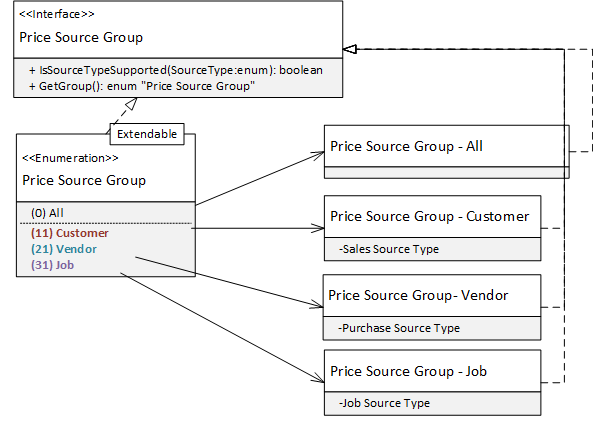
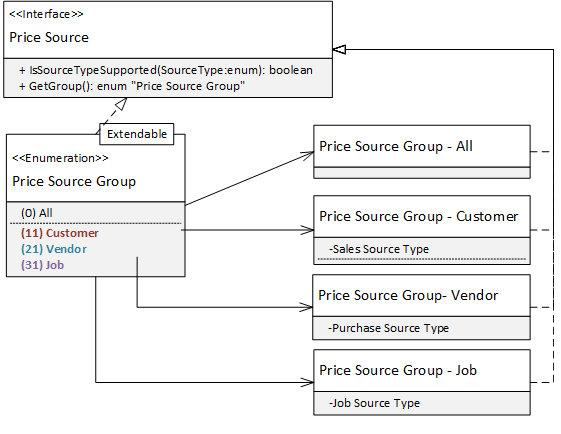
redid some images

diff --git a/dev-itpro/developer/devenv-extending-best-price-calculations.md b/dev-itpro/developer/devenv-extending-best-price-calculations.md
@@ -39,7 +39,7 @@ You can have multiple setups with the same combination of method, type, and asse
 |Method  |Type  |Asset Type  |Implementation  |Default  |
 |---------|---------|---------|---------|---------|
 |Lowest Price|Sale|All|Business Central (Version 15.0)|X|
-|Lowest Price|Sale|All|Business Central (Version 16.0| |
+|Lowest Price|Sale|All|Business Central (Version 16.0)| |
 
 By default, all sales lines use the "Business Central (Version 15.0)" implementation to calculate prices, unless the second line has detailed setup lines that define exceptions. 
 
@@ -96,11 +96,11 @@ The method value is part of the composite key in the Price Calculation Setup tab
 
 The Sales & Receivable Setup table defines the default method, Lowest Price, for all sales prices. If you want to use a different method, you can specify it on a customer price group or a customer. You cannot edit the method on sales document headers or lines.
 
-:::image type="content" source="../media/best-pricing-price-sources-group.png" alt-text="Diagram showing the price sources group.":::
+:::image type="content" source="../media/best-pricing-method-sales-setup.png" alt-text="Diagram showing the setup for sale.":::
 
 The Purchase & Payables Setup table also defines the default method for all purchase prices. You can redefine it for a certain vendor. You cannot edit the method on purchase document headers or lines. 
 
-:::image type="content" source="../media/best-pricing-method.png" alt-text="Diagram showing details about the best pricing method.":::
+:::image type="content" source="../media/best-pricing-method-purchase-setup.png" alt-text="Diagram showing the setup for purchase.":::
 
 ## Data Structure Comparison
 The Business Central (Version 15.0) calculation uses the following tables that store information about prices, costs, and discounts: 
@@ -443,9 +443,8 @@ The Price Source Group interface defines methods for a generic price source grou
 
 This enum is the subset of the Price Source Type enum. Both enums implement the Price Source Group interface. The interface helps to link the Price Source Type enum with the Sale Price Source Type, Purchase Price Source Type, and Job Price Source Type enums.
 
-:::image type="content" source="../media/best-pricing-price-sources-group.png" alt-text="Example of a price sources group.":::
+:::image type="content" source="../media/best-pricing-price-sources-group.png" alt-text="Diagram showing a price sources group.":::
 
-## Adding User Experience
 The new price calculation capabilities are not available in the user interface. When a page does become available, either, from Microsoft or one that you develop yourself, you can use the following sample code to extend the page with a new control.
 
 ```
